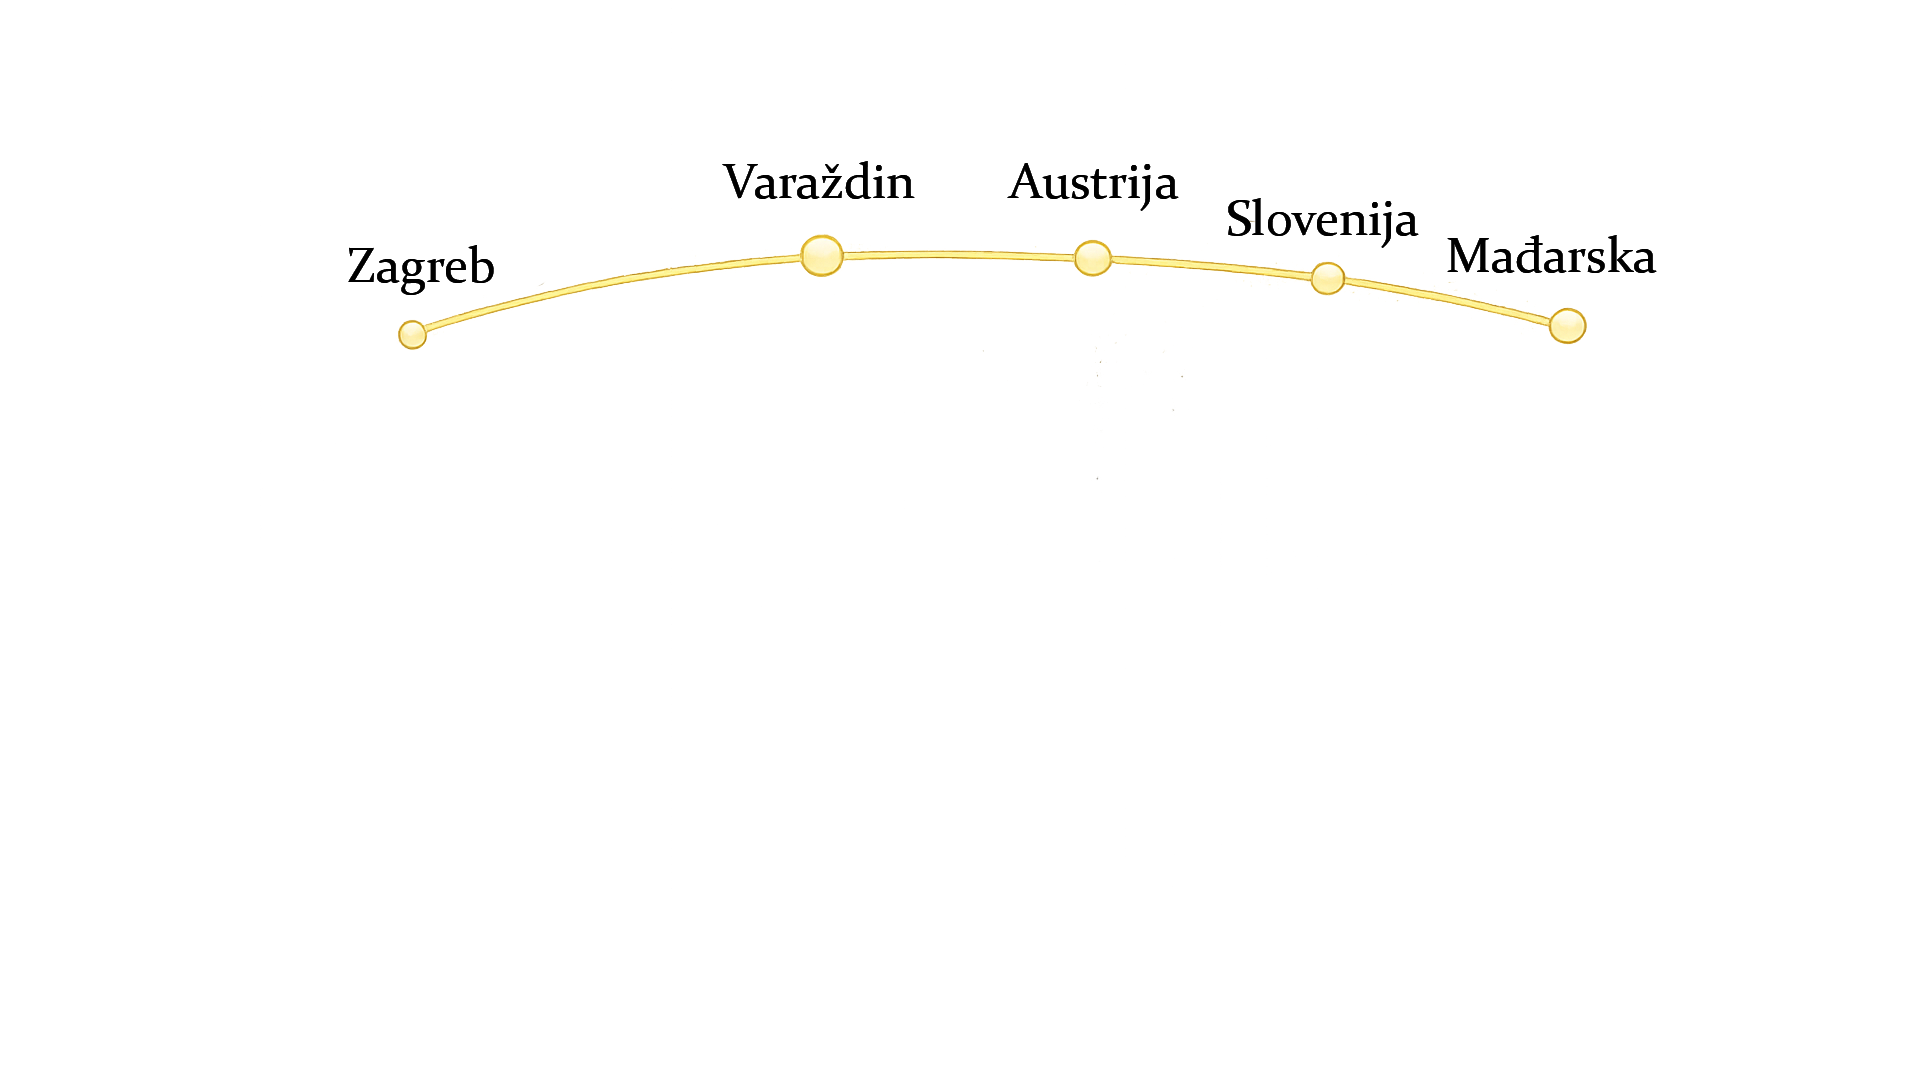
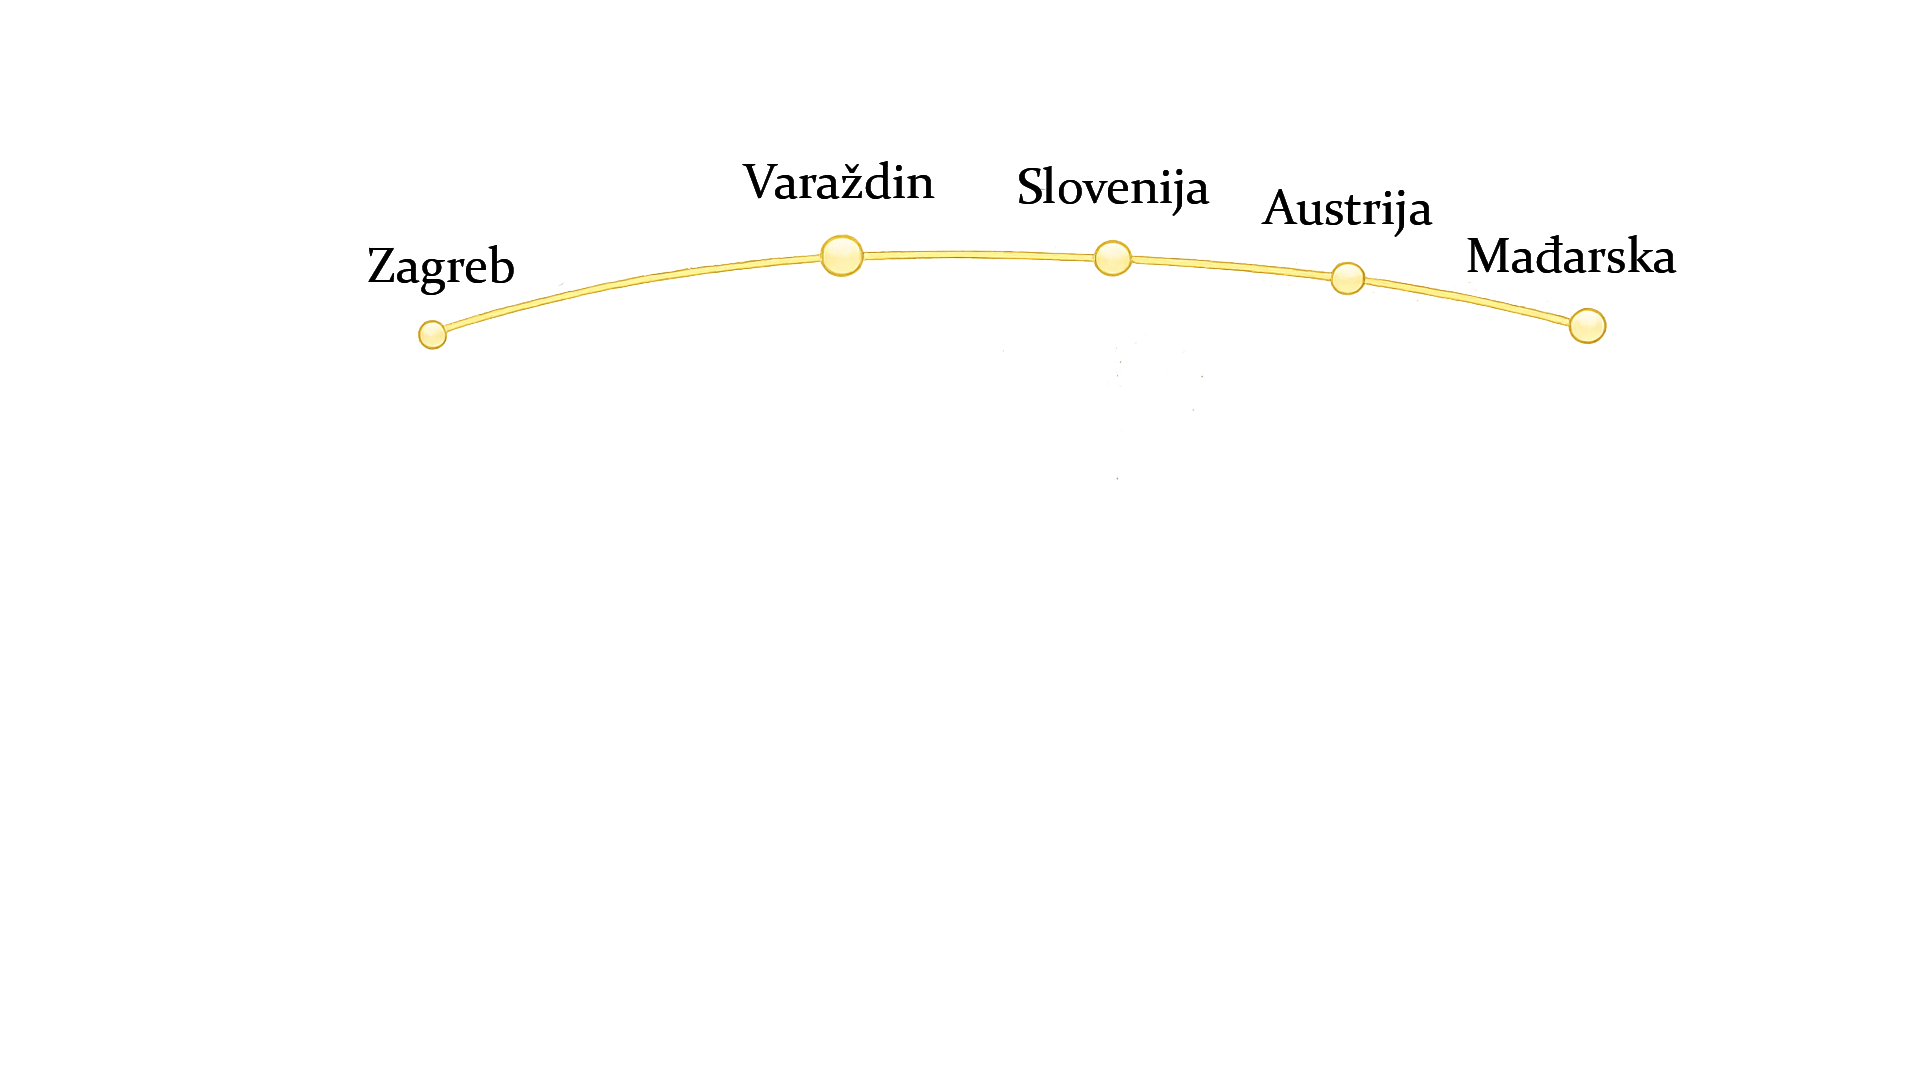
timing

Changed region(s): [[0.5, 0.1528, 0.875, 0.3361], [0.1875, 0.2139, 0.4688, 0.3361], [0.375, 0.1528, 0.5, 0.1833]]

diff --git a/src/components/AutoPlay.jsx b/src/components/AutoPlay.jsx
@@ -1,52 +1,123 @@
 // src/components/AutoPlay.jsx
-// Explore Mode      — Lenis smooth scroll, user-driven.
-// Presentation Mode — lenis.scrollTo() with linear easing at constant speed.
-//   One captain: Lenis owns scroll in both modes. No external window.scrollTo,
-//   no ticker, no GSAP ScrollToPlugin, no conflicts.
+// Waypoint-based presentation autoplay.
+// Each entry defines a CSS selector for a slide's scroll container
+// and the exact number of seconds to spend scrolling through it.
+// Tune PLAN to adjust timing for every individual slide.
 import { useEffect, useRef, useState, useCallback } from 'react'
 import lenisRef from '../lib/lenisRef'
 
-const SPEED_PX_S = 180   // pixels per second
-const PAUSE_MS   = 2000  // ms to wait after a manual scroll before resuming
+// ─── per-slide timing config ──────────────────────────────────────────────────
+// sel:  data-section selector of the slide's scroll container div
+// dur:  seconds to scroll through this slide during autoplay
+const PLAN = [
+  { sel: null,                                      dur: 6  },  // Hero (AquaCity title + Predstavlja)
+  { sel: '[data-section="aquacity-intro"]',          dur: 8  },  // Od postojećeg prostora cinematic
+  { sel: '[data-section="static-identity"]',         dur: 5  },  // Mjesto koje generacije već poznaju
+  { sel: '[data-section="aquacity-problem"]',        dur: 8  },  // Jezero postoji cinematic
+  { sel: '[data-section="aquacity-location"]',       dur: 8  },  // Strateška lokacija cinematic
+  { sel: '[data-section="static-varazdin-transit"]', dur: 6  },  // Varaždin kao točka prolaza
+  { sel: '[data-section="aquacity-vision"]',         dur: 8  },  // Vizija cinematic
+  { sel: '[data-section="static-model"]',            dur: 7  },  // Model razvoja
+  { sel: '[data-section="static-phases"]',           dur: 6  },  // 5 faza transformacije
+  { sel: '[data-section="aquacity-phase1"]',         dur: 14 },  // Faza 1 (2 cards)
+  { sel: '[data-section="aquacity-phase2"]',         dur: 8  },  // Faza 2
+  { sel: '[data-section="aquacity-phase3"]',         dur: 8  },  // Faza 3
+  { sel: '[data-section="aquacity-phase4"]',         dur: 8  },  // Faza 4
+  { sel: '[data-section="aquacity-phase5"]',         dur: 8  },  // Faza 5
+  { sel: '[data-section="static-full-vision"]',      dur: 6  },  // Cjelovita vizija
+  { sel: '[data-section="static-partnership"]',      dur: 6  },  // Model suradnje
+  { sel: '[data-section="static-public"]',           dur: 5  },  // Prostor ostaje javan
+  { sel: '[data-section="static-change"]',           dur: 5  },  // Što se mijenja
+  { sel: '[data-section="static-nextstep"]',         dur: 7  },  // Sljedeći korak
+  { sel: '[data-section="static-contact"]',          dur: 8  },  // Zaključak + kontakt
+]
 
+const PAUSE_MS = 2000  // ms before resuming after manual scroll
+
+// ─── helpers ─────────────────────────────────────────────────────────────────
+function getSectionEnd(sel) {
+  if (!sel) {
+    // Hero: first child div of the page (300vh scroll container)
+    const el = document.querySelector('[data-section]')
+    return el ? el.offsetTop : window.innerHeight * 3
+  }
+  const el = document.querySelector(sel)
+  if (!el) return null
+  return el.offsetTop + el.offsetHeight
+}
+
+function getCurrentStepIndex(scrollY) {
+  // Find which plan step contains the current scroll position
+  for (let i = PLAN.length - 1; i >= 0; i--) {
+    const end = getSectionEnd(PLAN[i].sel)
+    if (end === null) continue
+    const start = i === 0 ? 0 : (getSectionEnd(PLAN[i - 1].sel) ?? 0)
+    if (scrollY >= start) return i
+  }
+  return 0
+}
+
+// ─── component ───────────────────────────────────────────────────────────────
 export default function AutoPlay() {
   const [playing, setPlaying] = useState(false)
   const [done,    setDone]    = useState(false)
-  const pauseTimer = useRef(null)
+  const stepRef     = useRef(0)
+  const pauseTimer  = useRef(null)
+  const activeRef   = useRef(false)  // true while autoplay is running
 
-  // ── ask Lenis to scroll to the end from a given position ─────────────────
-  const startFrom = useCallback((pos) => {
-    const l = lenisRef.current
-    if (!l) return
-    const maxScroll = document.documentElement.scrollHeight - window.innerHeight
-    const remaining = maxScroll - pos
-    if (remaining <= 0) {
+  const runStep = useCallback((idx) => {
+    if (!activeRef.current) return
+    if (idx >= PLAN.length) {
+      activeRef.current = false
       setPlaying(false)
       setDone(true)
       return
     }
-    l.scrollTo(maxScroll, {
-      duration: remaining / SPEED_PX_S,
-      easing:   (t) => t,          // linear — constant speed, no ease-in/out
+
+    const { sel, dur } = PLAN[idx]
+    const target = getSectionEnd(sel)
+    if (target === null) { runStep(idx + 1); return }
+
+    const l = lenisRef.current
+    if (!l) return
+
+    const maxScroll = document.documentElement.scrollHeight - window.innerHeight
+    const clampedTarget = Math.min(target, maxScroll)
+    const currentPos = l.scroll ?? window.scrollY
+
+    if (clampedTarget <= currentPos + 2) {
+      // Already past this section, skip
+      stepRef.current = idx + 1
+      runStep(idx + 1)
+      return
+    }
+
+    stepRef.current = idx
+    l.scrollTo(clampedTarget, {
+      duration: dur,
+      easing: (t) => t,  // linear — constant speed within each slide
       onComplete: () => {
-        setPlaying(false)
-        setDone(true)
+        if (!activeRef.current) return
+        runStep(idx + 1)
       },
     })
   }, [])
 
-  // ── start / pause / restart ───────────────────────────────────────────────
   const start = useCallback(() => {
     const l = lenisRef.current
-    if (l) l.start()
-    const pos = lenisRef.current?.scroll ?? window.scrollY
+    if (!l) return
+    l.start()
+    activeRef.current = true
     setPlaying(true)
     setDone(false)
     window.dispatchEvent(new CustomEvent('autoplay:resume'))
-    startFrom(pos)
-  }, [startFrom])
+    const pos = l.scroll ?? window.scrollY
+    const idx = getCurrentStepIndex(pos)
+    runStep(idx)
+  }, [runStep])
 
   const pause = useCallback(() => {
+    activeRef.current = false
     const l = lenisRef.current
     if (l) l.stop()
     setPlaying(false)
@@ -54,36 +125,44 @@ export default function AutoPlay() {
   }, [])
 
   const restart = useCallback(() => {
+    activeRef.current = false
     const l = lenisRef.current
     if (l) {
       l.stop()
       l.scrollTo(0, { immediate: true })
     }
+    clearTimeout(pauseTimer.current)
     setTimeout(() => {
       const l2 = lenisRef.current
       if (l2) l2.start()
+      activeRef.current = true
       setPlaying(true)
       setDone(false)
       window.dispatchEvent(new CustomEvent('autoplay:resume'))
-      startFrom(0)
+      runStep(0)
     }, 80)
-  }, [startFrom])
+  }, [runStep])
 
-  // ── manual-scroll detection → pause temporarily ───────────────────────────
+  // manual scroll → pause, resume after PAUSE_MS
   useEffect(() => {
     const onManual = () => {
       if (!playing) return
+      activeRef.current = false
       const l = lenisRef.current
       if (l) l.stop()
       setPlaying(false)
+      window.dispatchEvent(new CustomEvent('autoplay:pause'))
 
       clearTimeout(pauseTimer.current)
       pauseTimer.current = setTimeout(() => {
         const l2 = lenisRef.current
         if (l2) l2.start()
-        const pos = lenisRef.current?.scroll ?? window.scrollY
+        activeRef.current = true
         setPlaying(true)
-        startFrom(pos)
+        window.dispatchEvent(new CustomEvent('autoplay:resume'))
+        const pos = l2?.scroll ?? window.scrollY
+        const idx = getCurrentStepIndex(pos)
+        runStep(idx)
       }, PAUSE_MS)
     }
 
@@ -94,34 +173,24 @@ export default function AutoPlay() {
       window.removeEventListener('touchmove', onManual)
       clearTimeout(pauseTimer.current)
     }
-  }, [playing, startFrom])
+  }, [playing, runStep])
 
-  // ── cleanup on unmount ────────────────────────────────────────────────────
   useEffect(() => () => {
+    activeRef.current = false
     const l = lenisRef.current
     if (l) l.stop()
     clearTimeout(pauseTimer.current)
   }, [])
 
-  // ── button ────────────────────────────────────────────────────────────────
+  // ── button ──────────────────────────────────────────────────────────────────
   const btn = {
-    position:            'fixed',
-    bottom:              '1.6rem',
-    right:               '5rem',
-    zIndex:              9999,
-    width:               '2.6rem',
-    height:              '2.6rem',
-    borderRadius:        '50%',
-    border:              '1px solid rgba(255,255,255,0.12)',
-    background:          'rgba(6, 9, 6, 0.55)',
-    backdropFilter:      'blur(16px)',
-    WebkitBackdropFilter:'blur(16px)',
-    cursor:              'pointer',
-    display:             'flex',
-    alignItems:          'center',
-    justifyContent:      'center',
-    padding:             0,
-    transition:          'background 0.2s ease',
+    position: 'fixed', bottom: '1.6rem', right: '5rem', zIndex: 9999,
+    width: '2.6rem', height: '2.6rem', borderRadius: '50%',
+    border: '1px solid rgba(255,255,255,0.12)',
+    background: 'rgba(6, 9, 6, 0.55)',
+    backdropFilter: 'blur(16px)', WebkitBackdropFilter: 'blur(16px)',
+    cursor: 'pointer', display: 'flex', alignItems: 'center',
+    justifyContent: 'center', padding: 0, transition: 'background 0.2s ease',
   }
 
   const handleClick = () => {
@@ -146,7 +215,6 @@ export default function AutoPlay() {
   )
 }
 
-// ── icons ──────────────────────────────────────────────────────────────────
 function IconPlay() {
   return (
     <svg width="14" height="14" viewBox="0 0 24 24" fill="rgba(255,255,255,0.65)">
@@ -154,7 +222,6 @@ function IconPlay() {
     </svg>
   )
 }
-
 function IconPause() {
   return (
     <svg width="14" height="14" viewBox="0 0 24 24" fill="rgba(255,255,255,0.65)">
@@ -163,7 +230,6 @@ function IconPause() {
     </svg>
   )
 }
-
 function IconRestart() {
   return (
     <svg width="14" height="14" viewBox="0 0 24 24" fill="none"

diff --git a/src/pages/HomePage.jsx b/src/pages/HomePage.jsx
@@ -266,7 +266,7 @@ export default function HomePage() {
         </GlassBox>
       </StaticSlide>
 
-      <StaticSlide zIndex={16} height="280vh">
+      <StaticSlide id="static-public" zIndex={16} height="280vh">
         <GlassBox style={{ maxWidth: '620px', padding: '2.8rem 3.2rem' }}>
           <p style={T.label}>Prostor ostaje javan</p>
           <h2 style={{ ...T.h2, marginBottom: '1.8rem' }}>
@@ -287,7 +287,7 @@ export default function HomePage() {
         </GlassBox>
       </StaticSlide>
 
-      <StaticSlide zIndex={16} height="280vh">
+      <StaticSlide id="static-change" zIndex={16} height="280vh">
         <GlassBox style={{ maxWidth: '600px', padding: '2.8rem 3.2rem' }}>
           <p style={T.label}>Što se mijenja</p>
           <h2 style={{ ...T.h2, marginBottom: '1.8rem' }}>
